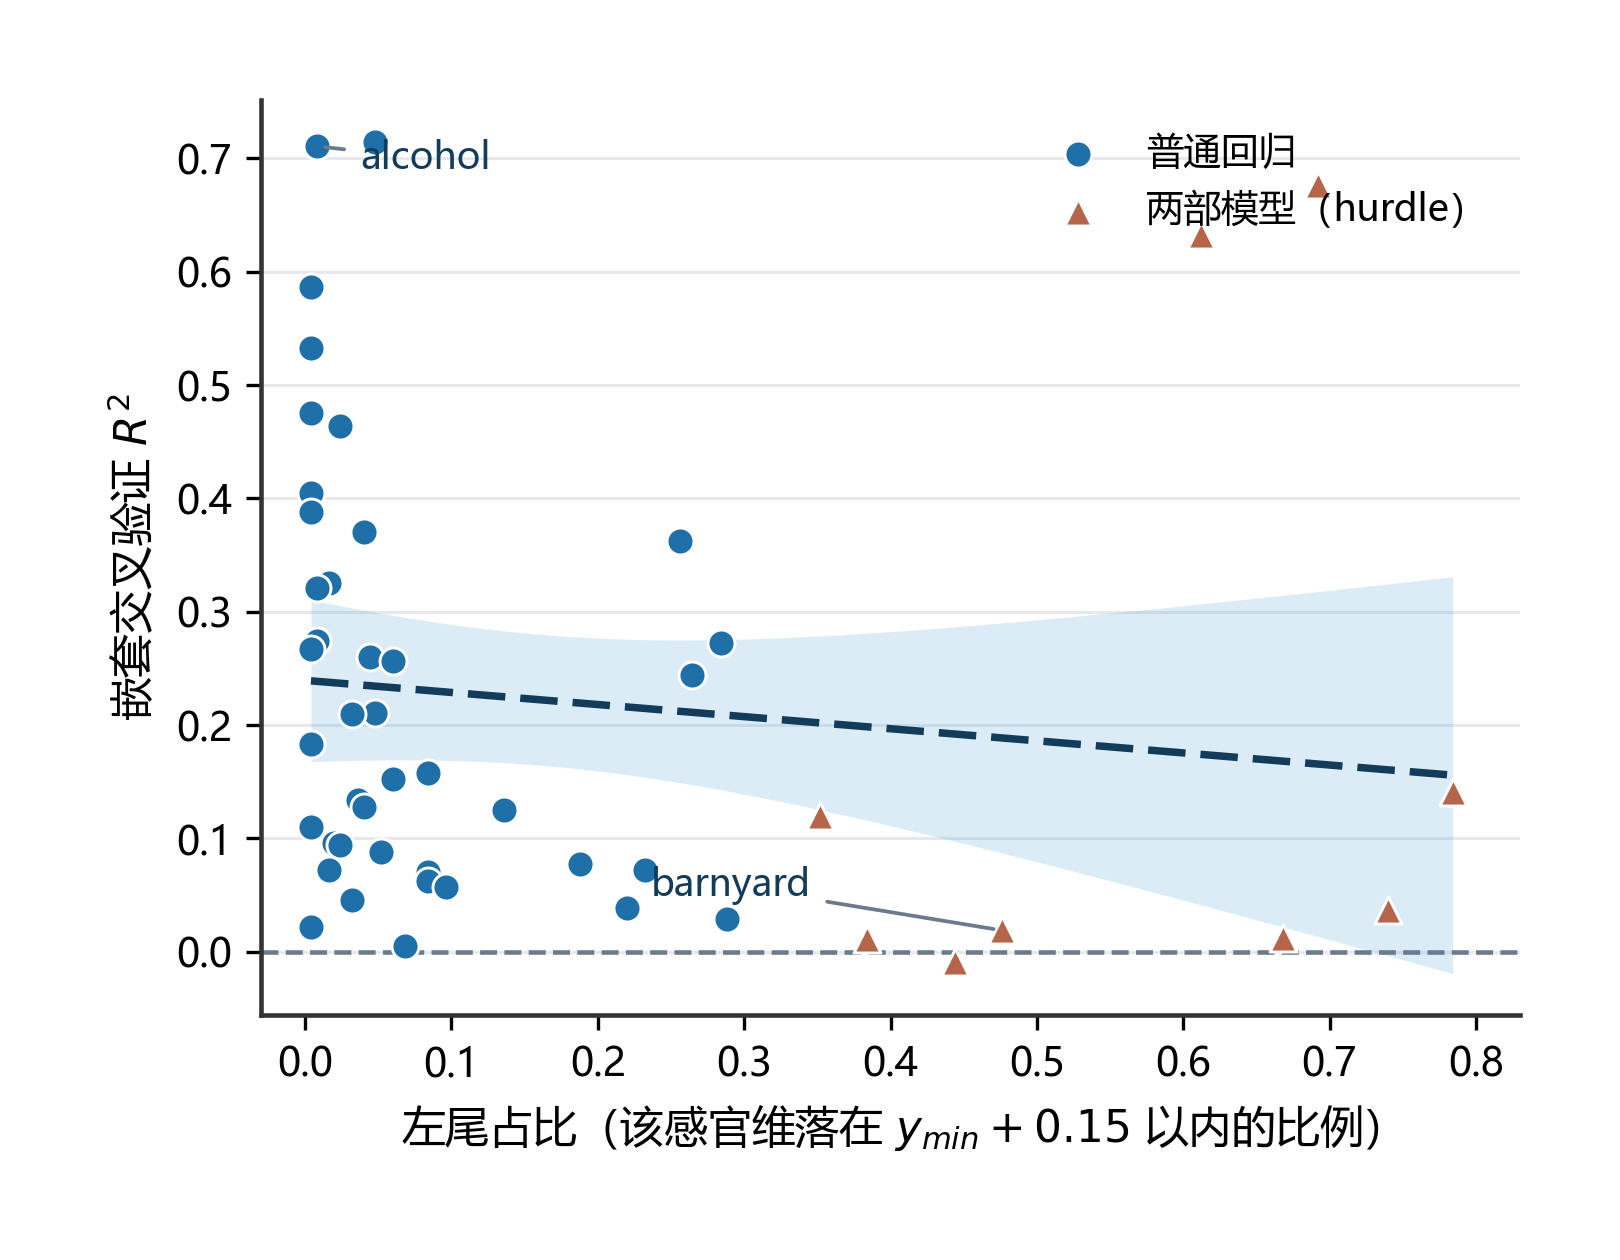
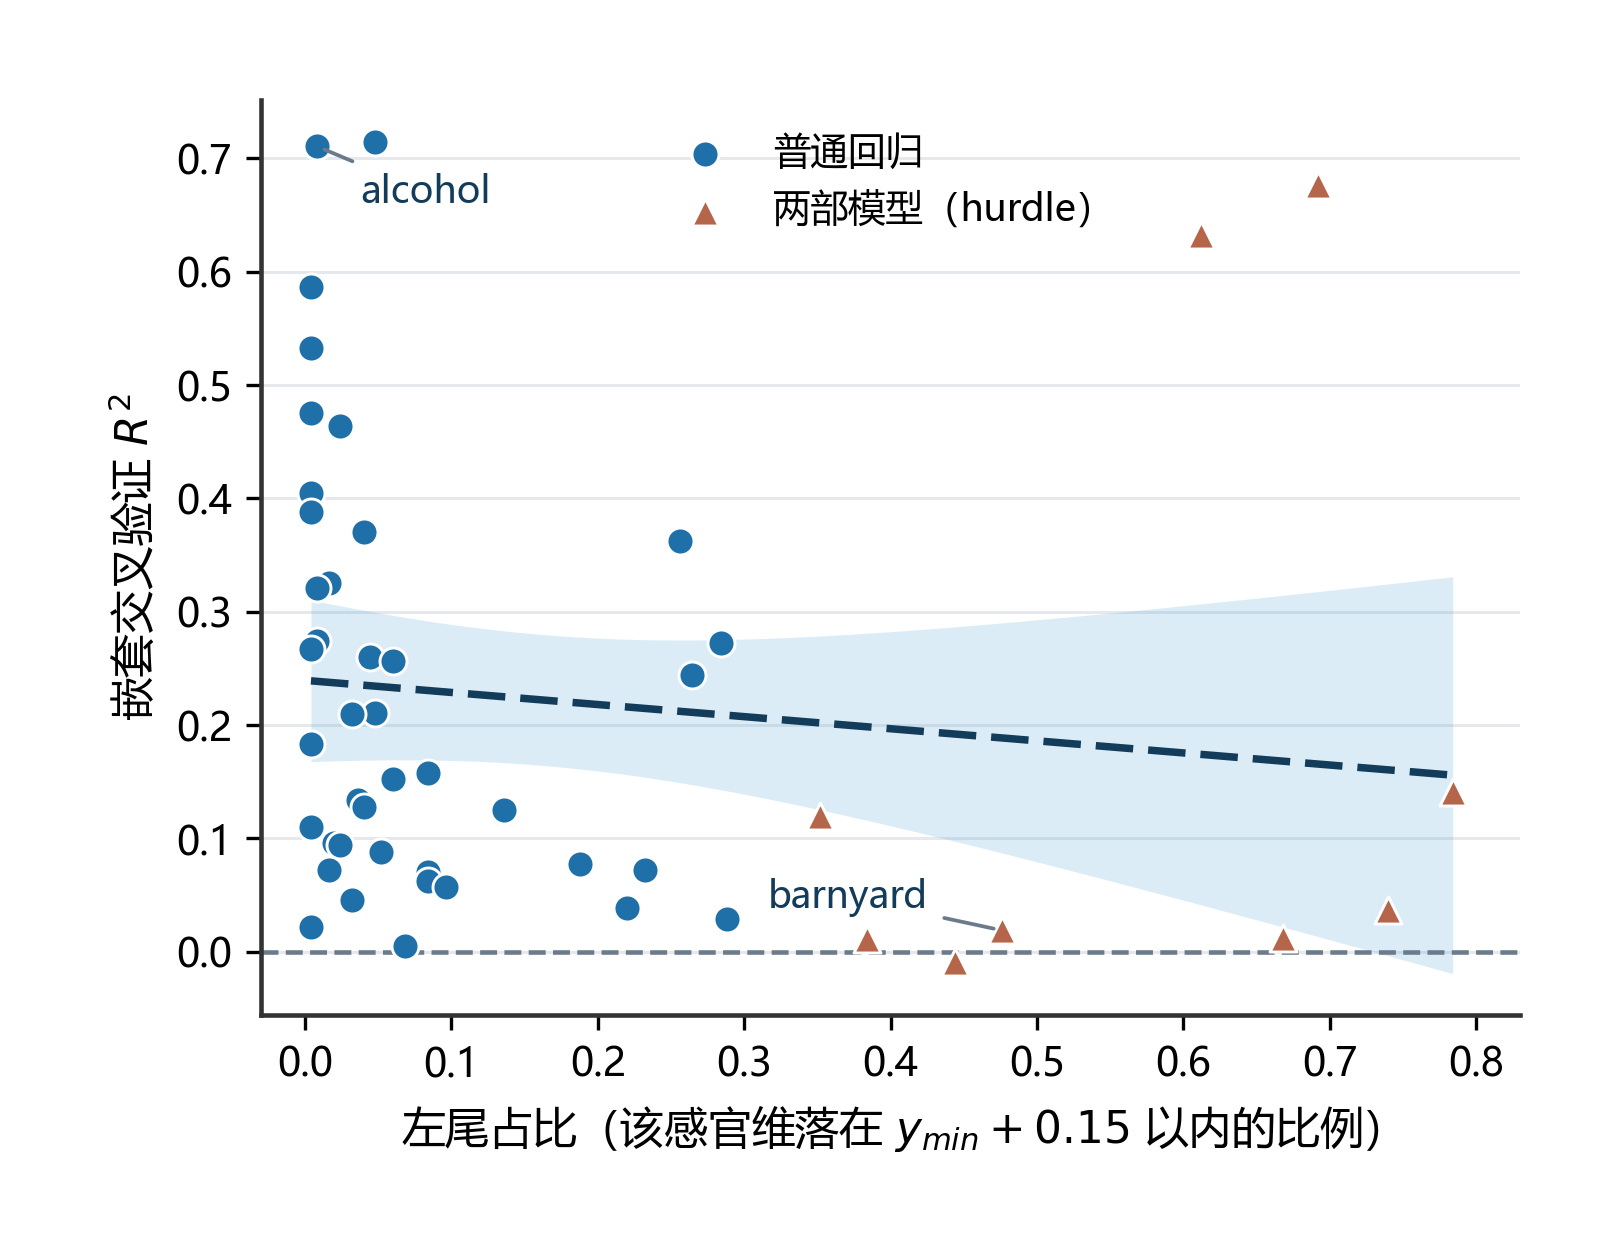
q1: 地板质量图的三处遮挡：图例被数据点压、两个点标签压点
图例原来放在 upper right，而右上角正好有两个 hurdle 点
（x≈0.61、0.69，R²≈0.63、0.68）。图例无边框，数据点直接透出来压在
"（hurdle）" 字样上，读者会误以为那是图例符号。改放 upper center——
该区域（x 0.27–0.52，y 0.68–0.75）没有任何点。

alcohol 的两个点几乎重合在 (0.01, 0.71) 与 (0.048, 0.715)，标签原来往右
偏 0.03（约 10 pt），正好落在第二个点上，字被点盖住。改为同时下移 -0.05。

barnyard 的点在 x≈0.47，标签却还留在 x≈0.24（dx=-0.24），那一带是蓝点最
密的地方，整段文字压在点上、引线横穿大半个图。改为 -0.16、上移 0.02，
落在置信带下沿与 y=0 参考线之间的空白里。

重出 fig_q1_floor_vs_r2 的 PNG 与 SVG（5.4x4.2 in / 300 dpi、坐标轴矩形、
拟合带与散点均未动；同一渲染环境逐像素比对，改动只落在图例和两个标签处）。

diff --git a/competitions/2026-mathorcup/code/figures.py b/competitions/2026-mathorcup/code/figures.py
@@ -346,9 +346,12 @@ def fig_q1_floor_vs_r2():
     ax.set_ylabel('嵌套交叉验证 $R^2$', fontsize=10.5)
     ax.set_xlim(-0.03, 0.83)
     ax.tick_params(labelsize=9.5)
-    ax.legend(loc='upper right', fontsize=9)
-    # 标注两个极端点，坐标取自 q1_metrics.csv
-    for name, dx, dy in (('alcohol', 0.03, -0.02), ('barnyard', -0.24, 0.03)):
+    ax.legend(loc='upper center', fontsize=9)
+    # 标注两个极端点，坐标取自 q1_metrics.csv。偏移按当前数据手调：
+    # alcohol 所在的 (0.01, 0.71) 旁边 0.048 处还有一个近重合的点，标签必须
+    # 往下让开它，否则字压在点上；barnyard 的点在 x≈0.47，原来把标签放在
+    # x≈0.24（-0.24）——那一片正好是蓝点最密的地方，整段文字都压在点上。
+    for name, dx, dy in (('alcohol', 0.03, -0.05), ('barnyard', -0.16, 0.02)):
         row = m[m.sens == name]
         if len(row):
             fx, fy = float(row.floor_mass.iloc[0]), float(row.R2.iloc[0])
